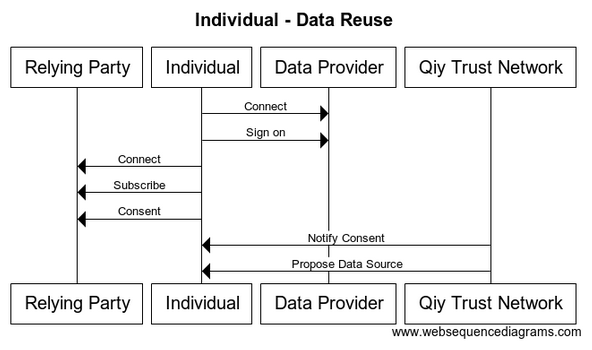
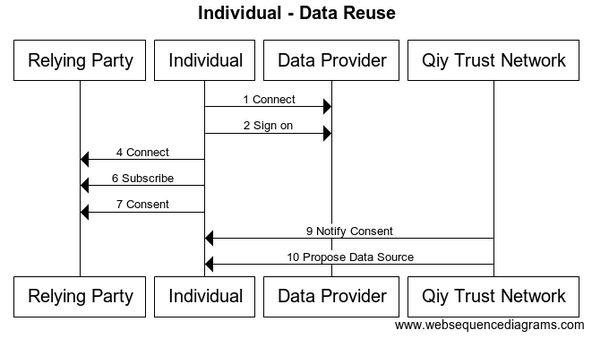
Updated section 4.2 Data Reuse (for Individual) in Functional Specification.
As part of #2.

Changed region(s): [[0.0, 0.1176, 1.0, 0.9706], [0.3345, 0.0, 0.6689, 0.0882]]

diff --git a/Functional Specification.md b/Functional Specification.md
@@ -123,7 +123,7 @@ After these steps, the [Individual](Definitions.md#individual) has gained access
 
 ## 4.2 Data Reuse
 
-tbd
+The flow for an [Individual](Definitions.md#individual) in the scenario described in [6 Data Reuse scenario](#6-data-reuse-scenario) is:
 
 ![Individual - Data Reuse](./images/Individual_-_Data_Reuse_-_Functional_Specification.png)
 
@@ -410,14 +410,14 @@ participant Individual as User
 participant "Data Provider" as DP
 participant "Qiy Trust Network" as QTF
 
-User -> DP	 	: Connect
-User -> DP	 	: Sign on
+User -> DP	 	: 1 Connect
+User -> DP	 	: 2 Sign on
 
-User -> RP	 	: Connect
-User -> RP	 	: Subscribe
-User -> RP	 	: Consent
-QTF -> Individual : Notify Consent
-QTF -> Individual : Propose Data Source
+User -> RP	 	: 4 Connect
+User -> RP	 	: 6 Subscribe
+User -> RP	 	: 7 Consent
+QTF -> Individual : 9 Notify Consent
+QTF -> Individual : 10 Propose Data Source
 ```
 
 
